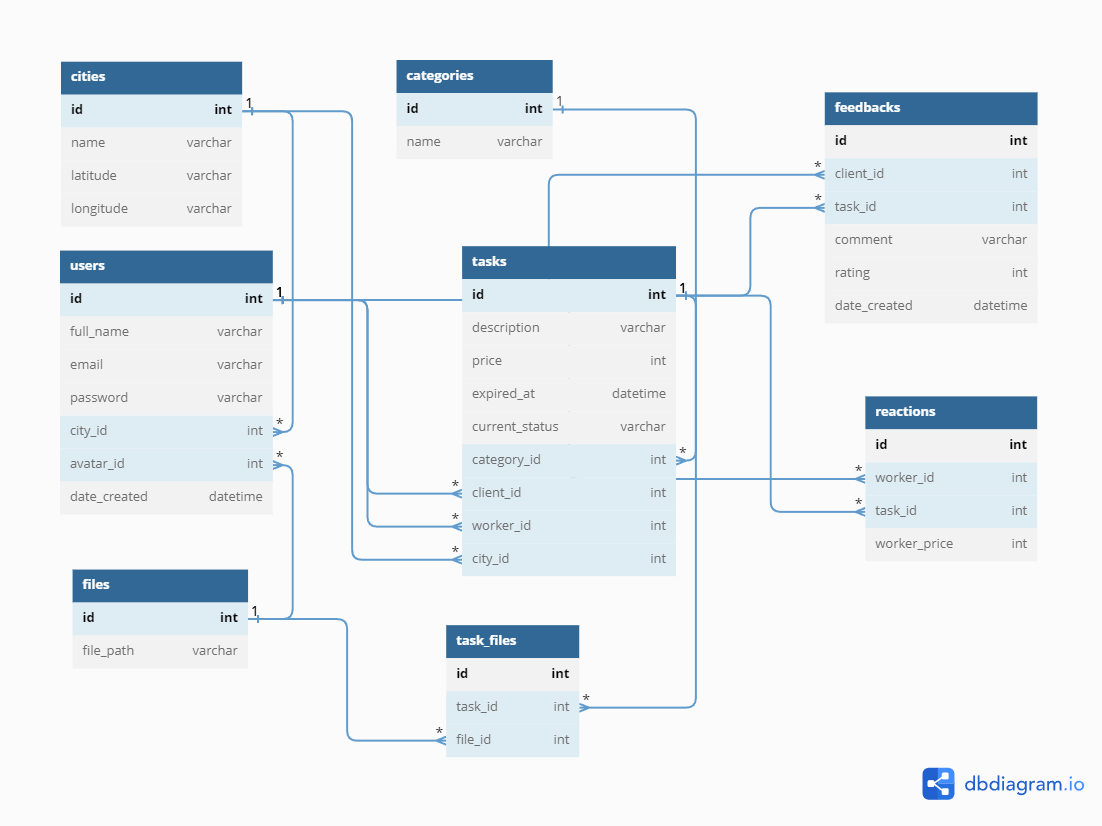
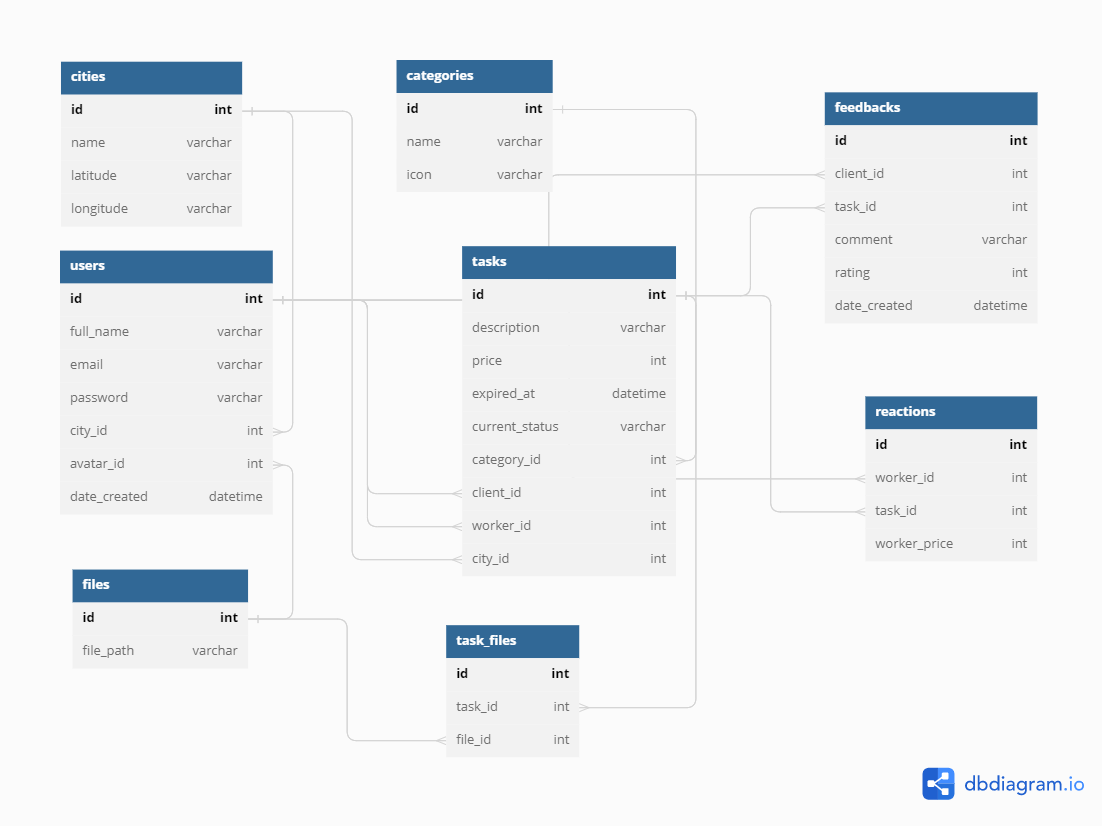
Делает sql файл из csv, но криво

diff --git a/src/Service/SqlFromCsvCreater.php b/src/Service/SqlFromCsvCreater.php
@@ -1,0 +1,92 @@
+<?php
+namespace Taskforce\Service;
+
+use Taskforce\Exceptions;
+
+class SqlFromCsvCreater
+{
+    private string $csvFile;
+    private \SplFileObject $fileObject;
+
+    private array $result = [];
+
+    private array $columns = [];
+
+    private string $sqlFileName = '';
+
+    public function __construct(string $csvFile, array $columns = [])
+    {
+        $this->csvFile = $_SERVER['DOCUMENT_ROOT'] . $csvFile;
+        $this->columns = $columns;
+    }
+
+    public function importCsv(): array
+    {
+        if (!file_exists($this->csvFile)) {
+            throw new Exceptions\SourceFileException("Файл не существует");
+        }
+
+        if (pathinfo($this->csvFile, PATHINFO_EXTENSION) !== 'csv') {
+            throw new Exceptions\FileFormatException("Допустимый формат для загрузки - csv");
+        }
+
+        try {
+            $this->fileObject = new \SplFileObject($this->csvFile);
+        } catch (\RuntimeException $exception) {
+            throw new Exceptions\SourceFileException("Не удалось открыть файл на чтение");
+        }
+
+        $this->fileObject->setFlags(
+            \SplFileObject::READ_CSV
+            | \SplFileObject::READ_AHEAD
+            | \SplFileObject::SKIP_EMPTY
+            | \SplFileObject::DROP_NEW_LINE
+        );
+
+        foreach ($this->getNextLine() as $line) {
+            $this->result[] = $line;
+        }
+
+        return $this->result;
+    }
+
+    private function getNextLine(): ?iterable {
+        // пропустим первую строку, заголовки передаем в $columns
+        $this->fileObject->fgetcsv();
+
+        while (!$this->fileObject->eof()) {
+            yield $this->fileObject->fgetcsv();
+        }
+    }
+
+    private function getFileName(): string
+    {
+        return $this->fileObject->getBasename('.'.$this->fileObject->getExtension());
+    }
+
+    public function createSqlFile(): void
+    {
+        $data = $this->importCsv();
+        $sqlFileName = $this->getFileName();
+        $file = new \SplFileObject($sqlFileName . '.sql', 'w');
+
+        $sqlStrings = [];
+        foreach ($data as $dataString) {
+            $values = '"' . implode('","', $dataString) . '"';
+
+            $string = 'INSERT INTO ' . $sqlFileName . ' (' . implode(",", $this->columns) .') '
+                        . 'VALUES (' . $values . ')';
+
+            $text = trim($string, '\'');
+            var_dump($text);
+
+
+            $sqlStrings[] = [$text];
+        }
+
+        foreach ($sqlStrings as $string) {
+            $file->fputcsv($string, ',', '\'');
+        }
+    }
+
+}

diff --git a/testCreateSql.php b/testCreateSql.php
@@ -1,0 +1,20 @@
+<?php
+require_once 'vendor/autoload.php';
+
+use Taskforce\Service;
+use Taskforce\Exceptions\SourceFileException;
+use Taskforce\Exceptions\FileFormatException;
+
+$loader = new Service\SqlFromCsvCreater(
+    '/data/categories.csv',
+    ['name', 'icon']
+);
+
+try {
+    $loader->createSqlFile();
+} catch (SourceFileException $e) {
+    error_log("Не удалось обработать csv файл: " . $e->getMessage());
+} catch (FileFormatException $e) {
+    error_log("Неверное расширение файла: " . $e->getMessage());
+}
+echo 'done!';

diff --git a/test.php b/test.php
@@ -6,7 +6,7 @@ use Taskforce\Service\Actions\ReactAction;
 use Taskforce\Service\Actions\StartAction;
 use Taskforce\Service\Actions\FinishAction;
 use Taskforce\Service\Actions\RejectAction;
-use Taskforce\Exception\TaskException;
+use Taskforce\Exceptions\TaskException;
 
 function checkStatusNew() {
     // проверка со стороны клиента

diff --git a/src/logic/Task.php b/src/logic/Task.php
@@ -1,7 +1,7 @@
 <?php
 namespace Taskforce\Logic;
 
-use Taskforce\Exception\TaskException;
+use Taskforce\Exceptions\TaskException;
 use Taskforce\Service\Actions\CancelAction;
 use Taskforce\Service\Actions\FinishAction;
 use Taskforce\Service\Actions\ReactAction;

diff --git a/src/Exceptions/TaskException.php b/src/Exceptions/TaskException.php
@@ -1,6 +1,6 @@
 <?php
 
-namespace Taskforce\Exception;
+namespace Taskforce\Exceptions;
 
 class TaskException extends \Exception
 {

diff --git a/src/Exceptions/FileFormatException.php b/src/Exceptions/FileFormatException.php
@@ -1,0 +1,8 @@
+<?php
+
+namespace Taskforce\Exceptions;
+
+class FileFormatException extends \Exception
+{
+
+}

diff --git a/src/Exceptions/SourceFileException.php b/src/Exceptions/SourceFileException.php
@@ -1,0 +1,8 @@
+<?php
+
+namespace Taskforce\Exceptions;
+
+class SourceFileException extends \Exception
+{
+
+}
